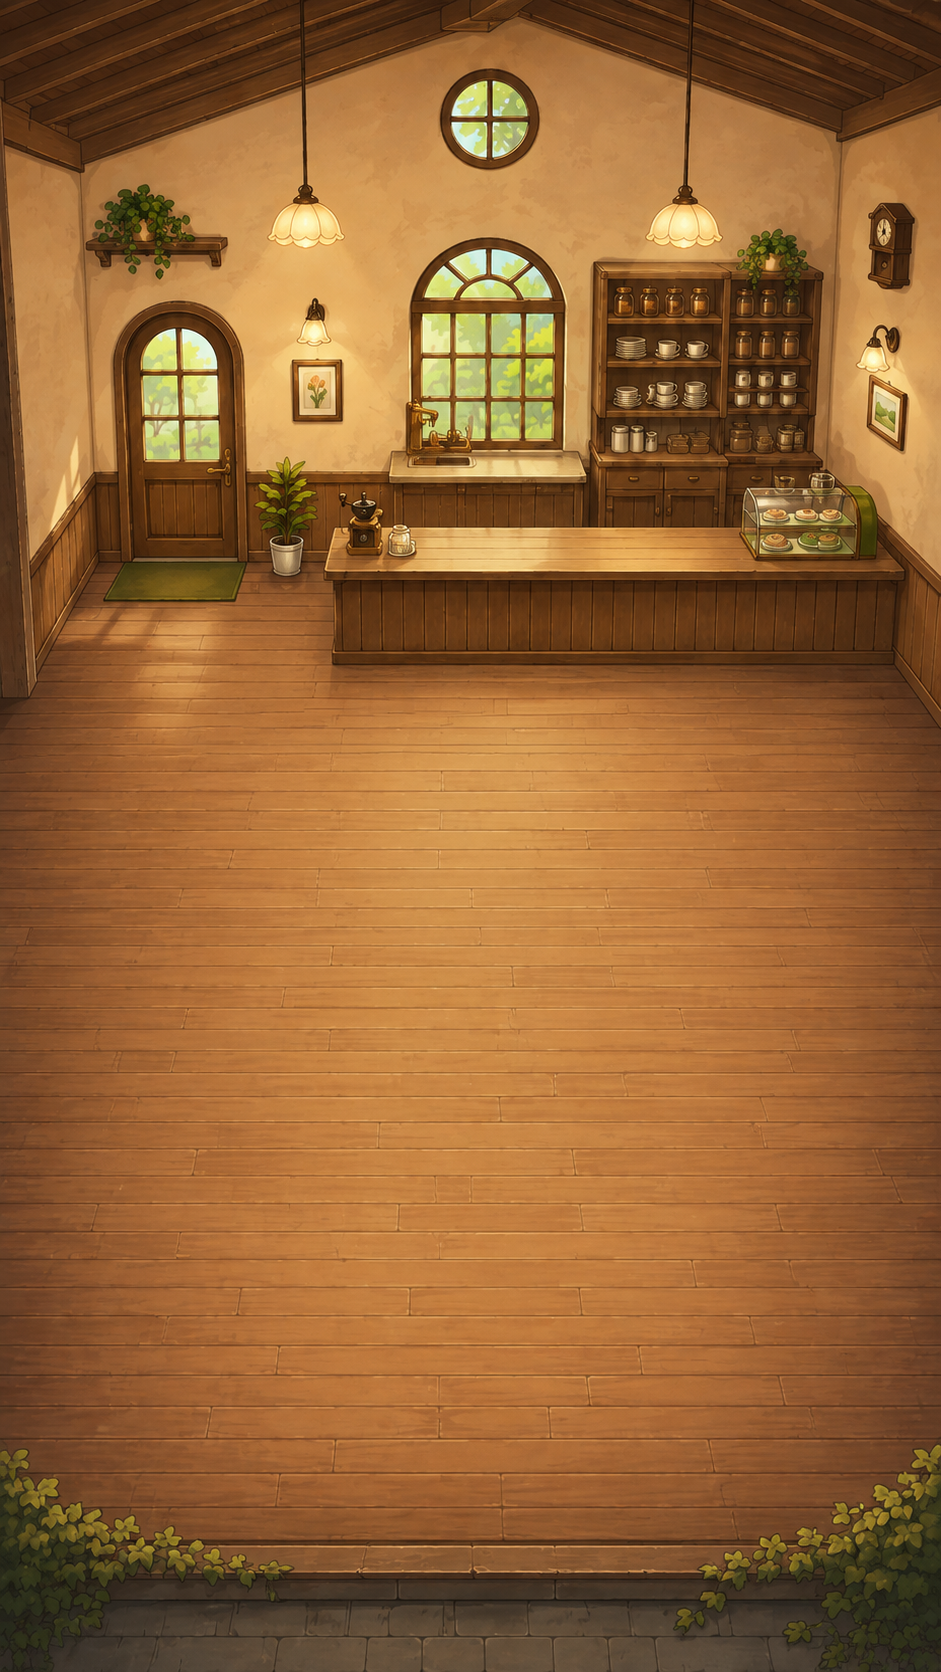
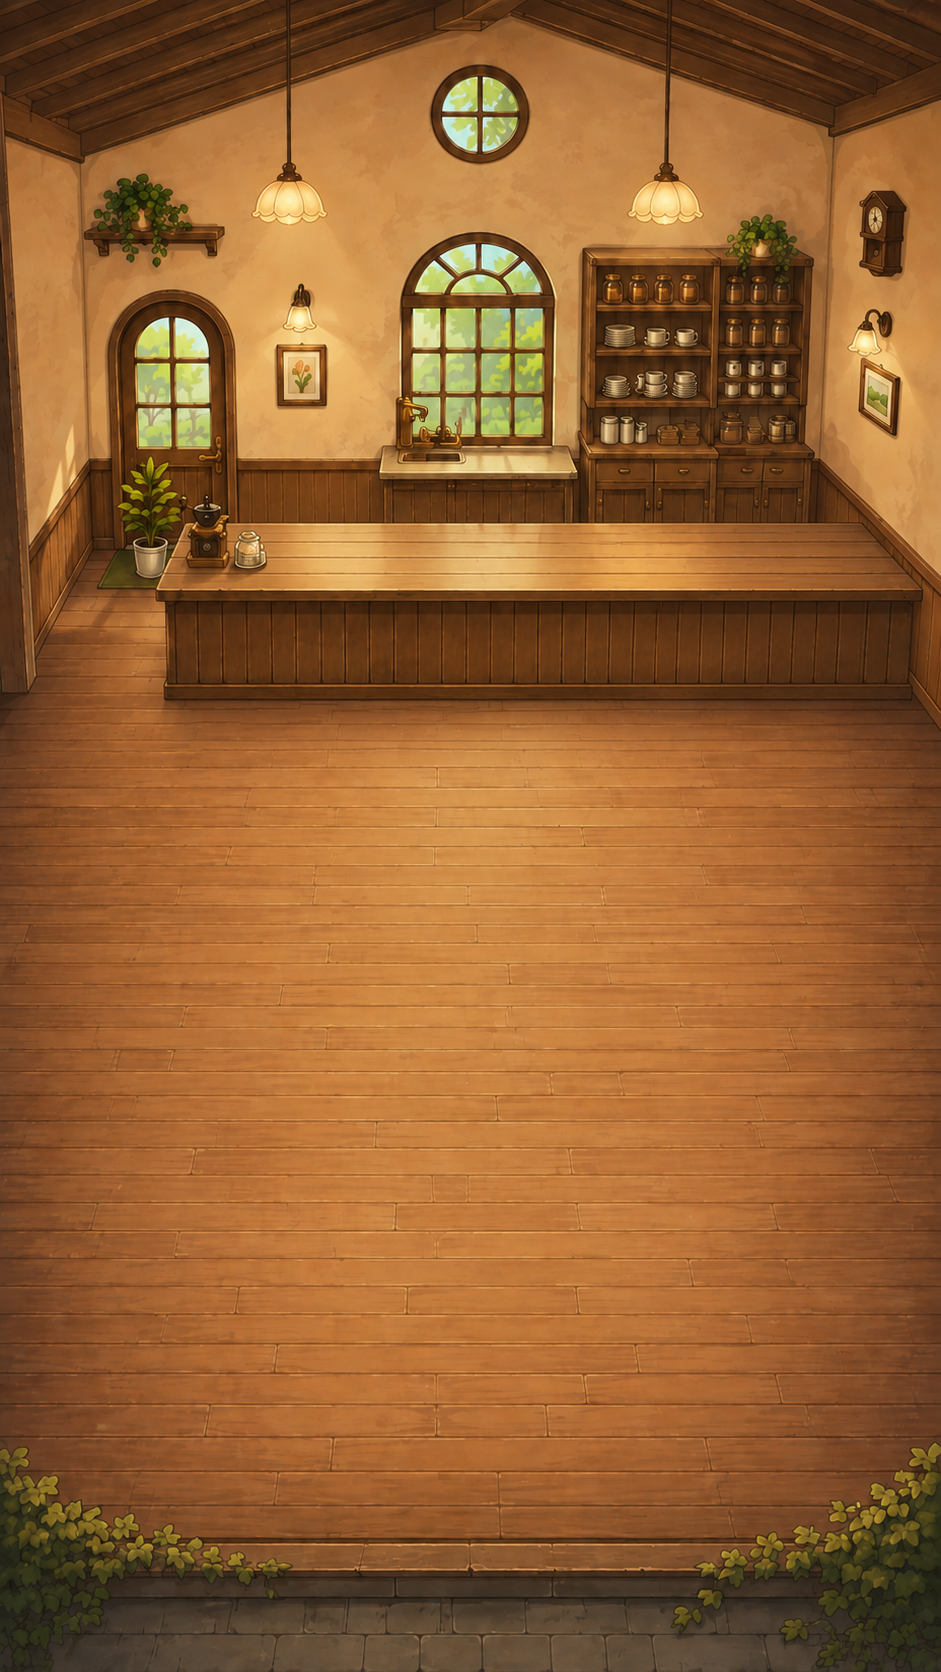
Use the wider counter artwork and spread equipment across its workspace

diff --git a/src/components/cafe/equipmentLayout.ts b/src/components/cafe/equipmentLayout.ts
@@ -11,12 +11,13 @@ export function equipmentLayout(state: GameState) {
   return visible.map((item, index) => {
     const row = Math.floor(index / 5);
     const count = Math.min(5, visible.length - row * 5);
-    const position = { x: 40 + (index % 5 + .5) * 43 / count, y: visible.length > 5 ? 27.5 + row * 6 : 33.5 };
+    // The wider counter leaves the grinder/entrance clear on the left.
+    const position = { x: 30 + (index % 5 + .5) * 65 / count, y: visible.length > 5 ? 32.2 + row * 3.5 : 35.7 };
     const stations = state.stations.filter(station => station.equipmentId === item.id);
     const activities = stations.map(station => ({ station, ...stationActivity(state, station.id) }));
     const activity = activities.find(entry => entry.status === "cooking") ?? activities.find(entry => entry.status === "waiting")
       ?? activities.find(entry => entry.status === "ready") ?? activities.find(() => true);
-    return { item, position, workPosition: { x: position.x - 3, y: 43.5 }, stations, activities,
+    return { item, position, workPosition: { x: position.x - 3, y: 44.5 }, stations, activities,
       status: activity?.status ?? "uninstalled", label: activity?.label ?? "未設置", order: activity?.order };
   });
 }

diff --git a/app/globals.css b/app/globals.css
@@ -125,7 +125,8 @@ body { background:#241c16; }
 .photo-cafe .scene-staff { width:10%; height:15cqw; }
 .photo-cafe .manager-name { font-size:12px; bottom:-15px; padding:1px 5px; background:#513a26d9; border-color:#c3a875; }
 .photo-cafe .manager-name small,.photo-cafe .staff-name,.photo-cafe .staff-talk { display:none; }
-.photo-cafe .equipment-layout .scene-equipment { width:8%; height:8cqw; }
+.photo-cafe .equipment-layout .scene-equipment { width:10%; height:8cqw; }
+.photo-cafe.has-expanded-kitchen .equipment-layout .scene-equipment { height:6cqw; }
 .photo-cafe .equipment-layout .equipment-prop i { font-size:3cqw; }
 .photo-cafe .equipment-state-label { display:none; }
 .photo-cafe .equipment-cooking .equipment-state-label,.photo-cafe .equipment-uninstalled .equipment-state-label { display:block; font-size:12px; top:-17px; }

diff --git a/public/assets/cafe/README.md b/public/assets/cafe/README.md
@@ -63,7 +63,8 @@
 
 ## 今回の提供素材（スマホ版）
 
-- `backgrounds/room.png`：提供された941×1672pxの店内画像。建物と固定家具の背景として原本のまま使用します。購入設備・客席・人物・注文・演出は独立したレイヤーで重ねます。
+- `backgrounds/room.png`：9月4日に提供された、カウンターを広く空けた941×1672pxの店内画像。建物と固定家具の背景として原本のまま使用します。購入設備・客席・人物・注文・演出は独立したレイヤーで重ねます。
+- 設備は広いカウンターの左右30〜95%の範囲に配置。6種類以上は前後2列に分け、全9種類を表示できます。店長・スタッフの調理位置も同じ配置から求めます。
 - `furniture/table-set.png`：提供された透過PNGのテーブルと椅子。原本の余白は画面上の表示枠でトリミングし、4卓に共用します。
 - 背景画像が読み込めない場合は従来のCSSの店内、テーブル画像が読み込めない場合は従来のテーブルと椅子を表示します。
 - 店内の原画比率を維持し、スマホの縦画面を埋めるように表示します。端末の比率に応じて左右または下端にトリミングが入ります。動くレイヤーも同じ座標面に配置するため、設備と人物の位置がずれません。
